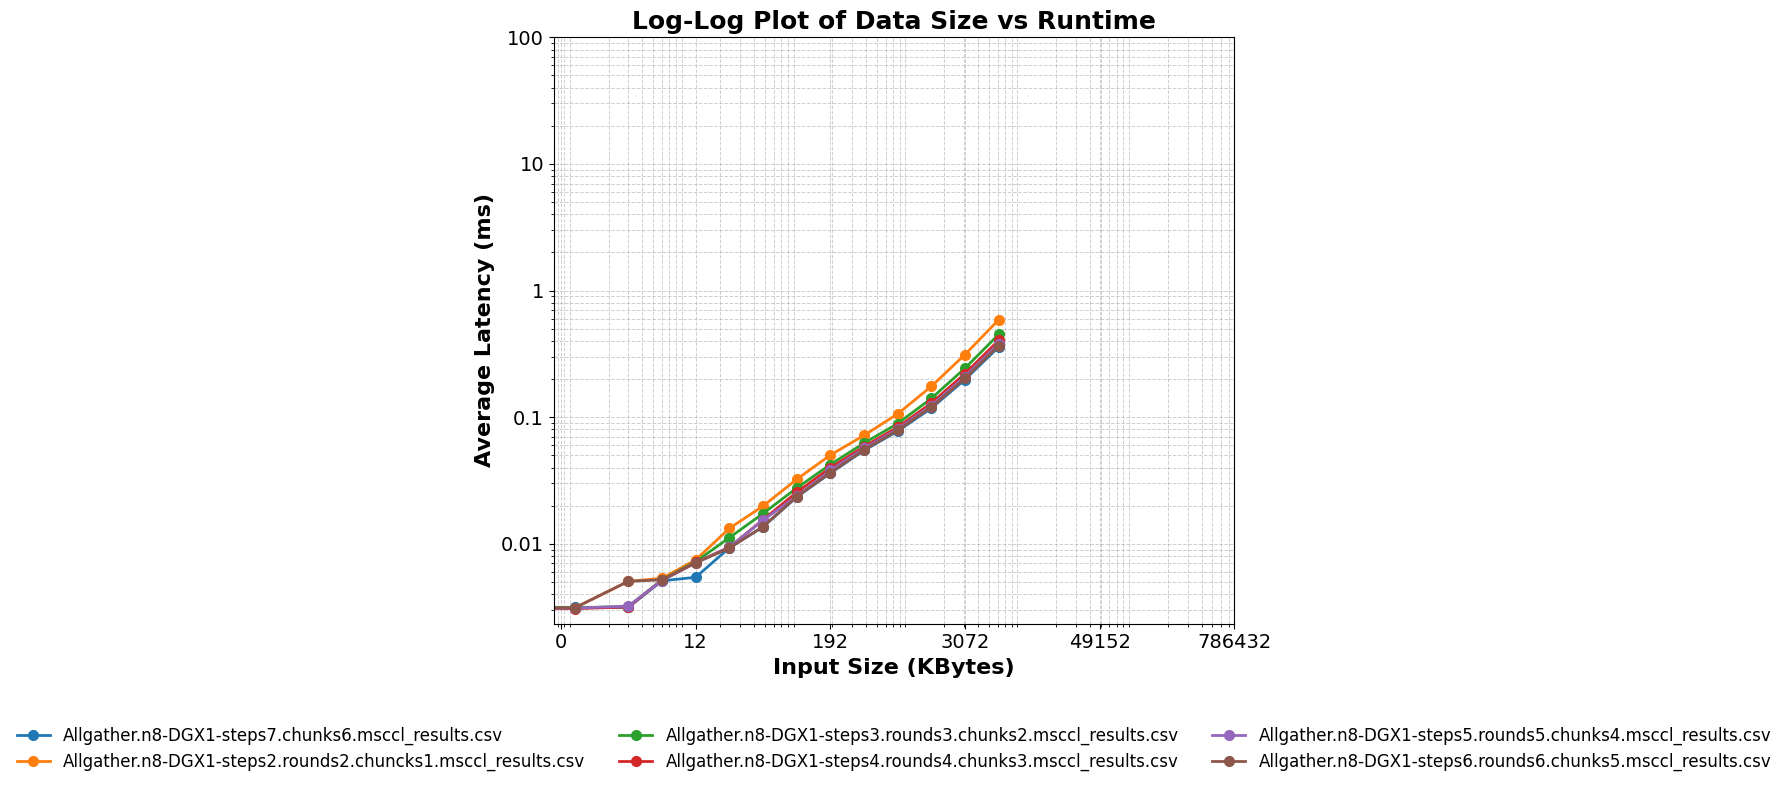
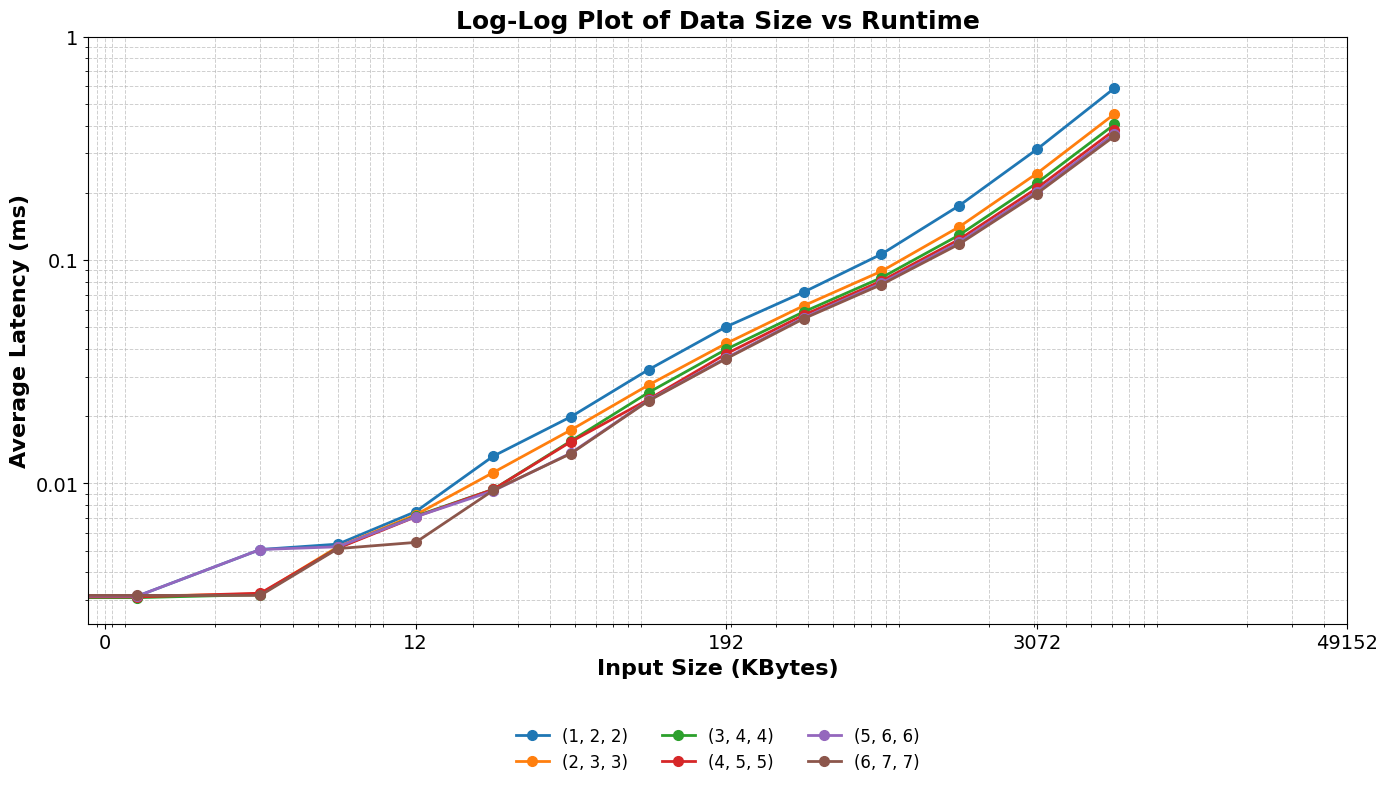
done

diff --git a/plot.py b/plot.py
@@ -2,12 +2,12 @@ import matplotlib.pyplot as plt
 import numpy as np
 import os
 file_paths = [
-    "allgather_results/Allgather.n8-DGX1-steps7.chunks6.msccl_results.csv",
-    "allgather_results/Allgather.n8-DGX1-steps2.rounds2.chuncks1.msccl_results.csv",
-    "allgather_results/Allgather.n8-DGX1-steps3.rounds3.chunks2.msccl_results.csv",
-    "allgather_results/Allgather.n8-DGX1-steps4.rounds4.chunks3.msccl_results.csv",
-    "allgather_results/Allgather.n8-DGX1-steps5.rounds5.chunks4.msccl_results.csv",
-    "allgather_results/Allgather.n8-DGX1-steps6.rounds6.chunks5.msccl_results.csv"
+    "allgather_results/(1, 2, 2)",
+    "allgather_results/(2, 3, 3)",
+    "allgather_results/(3, 4, 4)",
+    "allgather_results/(4, 5, 5)",
+    "allgather_results/(5, 6, 6)",
+    "allgather_results/(6, 7, 7)"
 ] 
 
 def plot_multiple_files(file_paths):
@@ -44,10 +44,10 @@ def plot_multiple_files(file_paths):
     plt.ylabel("Average Latency (ms)", fontsize=16, fontweight='bold')
 
     # Set custom ticks for the y-axis (log scale)
-    plt.yticks([0.01, 0.1, 1, 10, 100], ["0.01", "0.1", "1", "10", "100"], fontsize=14)
+    plt.yticks([0.01, 0.1, 1], ["0.01", "0.1", "1"], fontsize=14)
 
     # Set custom ticks for the x-axis (log scale)
-    powers_of_two = [0.75, 12, 192, 3072, 49152, 786432]
+    powers_of_two = [0.75, 12, 192, 3072, 49152]
     plt.xticks(powers_of_two, [str(int(x)) for x in powers_of_two], fontsize=14)
 
     # Add a grid with both major and minor ticks
